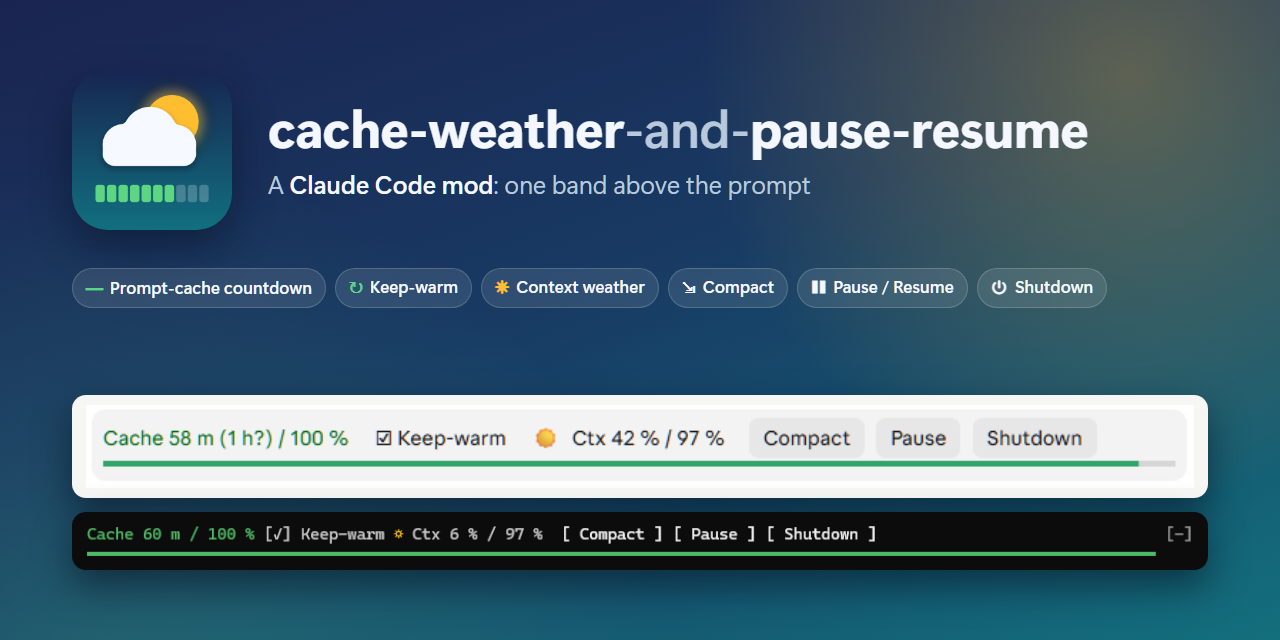
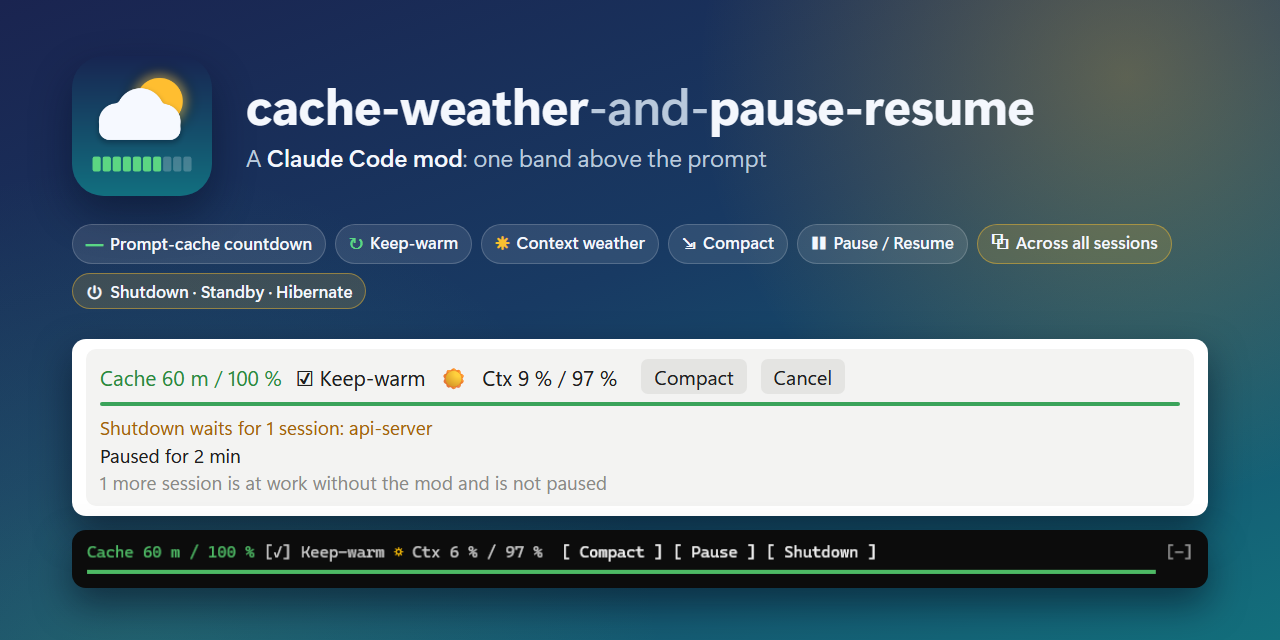
A new social preview: across all sessions, standby and hibernation
Two new chips (across all sessions; shutdown, standby, hibernate) and the desktop band with its
status row, a shutdown waiting for another session, drawn in HTML with the mod's English texts
(the screenshots of the status row are German); the terminal band stays a screenshot. The README
hero shows it, with new alt texts.

Changed region(s): [[0.0312, 0.5312, 0.9688, 0.9375], [0.0312, 0.0938, 0.9375, 0.5]]

diff --git a/docs/social-preview.html b/docs/social-preview.html
@@ -2,7 +2,9 @@
 <html>
 <head>
 <!-- The repository's social preview (docs/social-preview.png, 1280 x 640). Rendered with a headless browser:
-     msedge --headless=new --window-size=1280,640 --allow-file-access-from-files --screenshot=social-preview.png social-preview.html -->
+     msedge --headless=new --window-size=1280,640 --allow-file-access-from-files --screenshot=social-preview.png social-preview.html
+     The desktop band is drawn here in English with the mod's own texts (a shutdown waiting for another session); the
+     terminal band is a screenshot. -->
 <meta charset="utf-8">
 <style>
   :root {
@@ -24,14 +26,14 @@
       linear-gradient(160deg, var(--navy) 0%, #183a63 45%, var(--teal) 100%);
     position: relative;
   }
-  .wrap { position: absolute; inset: 0; padding: 70px 72px; box-sizing: border-box; }
-  .head { display: flex; align-items: center; gap: 36px; }
-  .icon { width: 160px; height: 160px; border-radius: 36px; box-shadow: 0 18px 40px rgba(4, 10, 30, 0.45); }
-  .title { font-size: 52px; font-weight: 650; letter-spacing: -0.5px; line-height: 1.05; }
+  .wrap { position: absolute; inset: 0; padding: 56px 72px; box-sizing: border-box; }
+  .head { display: flex; align-items: center; gap: 34px; }
+  .icon { width: 140px; height: 140px; border-radius: 32px; box-shadow: 0 18px 40px rgba(4, 10, 30, 0.45); }
+  .title { font-size: 50px; font-weight: 650; letter-spacing: -0.5px; line-height: 1.05; }
   .title .dim { color: var(--muted); font-weight: 500; }
-  .tag { margin-top: 12px; font-size: 25px; color: var(--muted); font-weight: 400; }
+  .tag { margin-top: 10px; font-size: 24px; color: var(--muted); font-weight: 400; }
   .tag b { color: var(--ink); font-weight: 600; }
-  .chips { margin-top: 38px; display: flex; flex-wrap: nowrap; gap: 9px; }
+  .chips { margin-top: 28px; display: flex; flex-wrap: wrap; gap: 9px; max-width: 1136px; }
   .chip {
     font-size: 17px; font-weight: 600; padding: 6px 13px; border-radius: 999px; white-space: nowrap;
     background: rgba(255, 255, 255, 0.10); border: 1px solid rgba(255, 255, 255, 0.18);
@@ -39,19 +41,27 @@
   .chip i { font-style: normal; margin-right: 7px; }
   .chip.sun i { color: var(--sun); }
   .chip.green i { color: var(--green); }
-  .shots { position: absolute; left: 72px; right: 72px; bottom: 70px; display: flex; flex-direction: column; gap: 14px; }
-  .card {
-    border-radius: 14px; overflow: hidden; box-shadow: 0 16px 36px rgba(3, 8, 24, 0.5);
-    display: flex; align-items: center;
+  .chip.new { background: rgba(251, 191, 47, 0.16); border-color: rgba(251, 191, 47, 0.45); }
+  .shots { position: absolute; left: 72px; right: 72px; bottom: 52px; display: flex; flex-direction: column; gap: 14px; }
+  .card { border-radius: 14px; overflow: hidden; box-shadow: 0 16px 36px rgba(3, 8, 24, 0.5); }
+  .card.light { background: #ffffff; padding: 10px 14px; }
+  .card.dark { background: #0c0c0c; padding: 12px 14px; display: flex; align-items: center; }
+  .card.dark img { display: block; width: 100%; height: auto; }
+
+  /* The band as the Claude desktop app draws it. */
+  .band {
+    background: #f3f3f2; border-radius: 10px; padding: 10px 14px 9px;
+    font-family: "Segoe UI Variable Text", "Segoe UI", system-ui, sans-serif; color: #1f1f1f; font-size: 21px;
   }
-  .card.light { background: #f6f6f4; padding: 10px 14px; }
-  .card.dark { background: #0c0c0c; padding: 12px 14px; }
-  .card img { display: block; width: 100%; height: auto; }
-  .label {
-    position: absolute; right: 72px; top: 64px; font-size: 18px; color: var(--muted);
-    text-align: right; line-height: 1.5;
-  }
-  .label b { color: var(--ink); font-weight: 600; }
+  .row { display: flex; align-items: center; gap: 24px; }
+  .row .group { display: flex; align-items: center; gap: 14px; }
+  .cache { color: #2b8a3e; }
+  .btn { background: #e4e4e2; border-radius: 7px; padding: 4px 13px; font-size: 20px; }
+  .bar { margin-top: 8px; height: 4px; border-radius: 2px; background: #3aa35a; }
+  .gap { height: 8px; }
+  .status { font-size: 19px; line-height: 1.45; }
+  .warning { color: #a3640b; }
+  .subtle { color: #8a8a86; }
 </style>
 </head>
 <body>
@@ -69,10 +79,31 @@
     <span class="chip sun"><i>☀</i>Context weather</span>
     <span class="chip"><i>⇲</i>Compact</span>
     <span class="chip"><i>❚❚</i>Pause / Resume</span>
-    <span class="chip"><i>⏻</i>Shutdown</span>
+    <span class="chip new"><i>⧉</i>Across all sessions</span>
+    <span class="chip new"><i>⏻</i>Shutdown · Standby · Hibernate</span>
   </div>
   <div class="shots">
-    <div class="card light"><img src="band-desktop.png" alt=""></div>
+    <div class="card light">
+      <div class="band">
+        <div class="row">
+          <div class="group">
+            <span class="cache">Cache 60 m / 100 %</span>
+            <span>☑ Keep-warm</span>
+            <span>☀</span>
+            <span>Ctx 9 % / 97 %</span>
+          </div>
+          <div class="group">
+            <span class="btn">Compact</span>
+            <span class="btn">Cancel</span>
+          </div>
+        </div>
+        <div class="bar"></div>
+        <div class="gap"></div>
+        <div class="status warning">Shutdown waits for 1 session: api-server</div>
+        <div class="status">Paused for 2 min</div>
+        <div class="status subtle">1 more session is at work without the mod and is not paused</div>
+      </div>
+    </div>
     <div class="card dark"><img src="band-terminal.png" alt=""></div>
   </div>
 </div>

diff --git a/README.de.md b/README.de.md
@@ -7,7 +7,7 @@
 
 *English: [README.md](README.md)*
 
-![cache-weather-and-pause-resume: die Leiste in der Claude-Desktop-App und im Terminal, mit Cache-Countdown und Balken, Keep-warm, Kontext-Wetter und den Knöpfen Compact, Pause und Shutdown](docs/social-preview.png)
+![cache-weather-and-pause-resume: die Leiste über dem Eingabefeld von Claude Code — Cache-Countdown und Balken, Keep-warm, Kontext-Wetter, Compact, Pause / Weiter über alle Sitzungen, Shutdown, Standby oder Ruhezustand. In der Desktop-App wartet ein Shutdown auf eine andere Sitzung, mit der Statuszeile unter dem Balken; darunter die Leiste im Terminal](docs/social-preview.png)
 
 > [!TIP]
 > **Kostenlos und Open Source.** Spart dir die Leiste Zeit oder Cache, kannst du ihre Weiterentwicklung unterstützen:

diff --git a/README.md b/README.md
@@ -7,7 +7,7 @@
 
 *Deutsch: [README.de.md](README.de.md)*
 
-![cache-weather-and-pause-resume: the band in the Claude desktop app and in a terminal, with the prompt-cache countdown and its bar, keep-warm, the context weather, and the Compact, Pause and Shutdown buttons](docs/social-preview.png)
+![cache-weather-and-pause-resume: the band above the Claude Code prompt — prompt-cache countdown and bar, keep-warm, context weather, Compact, Pause / Resume across all sessions, Shutdown, Standby or Hibernate. In the desktop app a shutdown waits for another session, its status row under the bar; below, the band in a terminal](docs/social-preview.png)
 
 > [!TIP]
 > **Free and open source.** If the band saves you time or cache, you can support its development:
